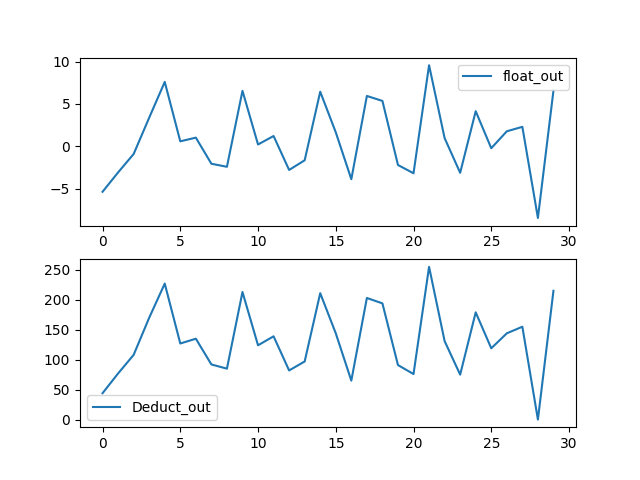
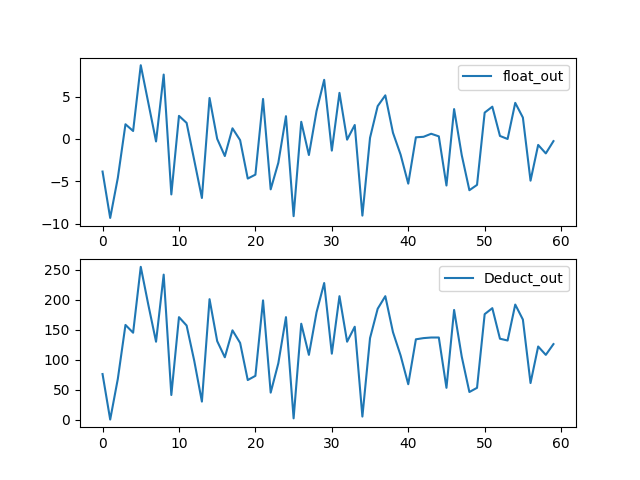
modified:   float_out_Deduct_out.png 	modified:   main.py

diff --git a/main.py b/main.py
@@ -150,7 +150,7 @@ def save_output(out, output_file):
 
 if __name__ == '__main__':
     input_dim = 20
-    no_batch = 1
+    no_batch = 2
     output_dim = 30
     v_range = [10, 245]
     g_range = [15, 240]
